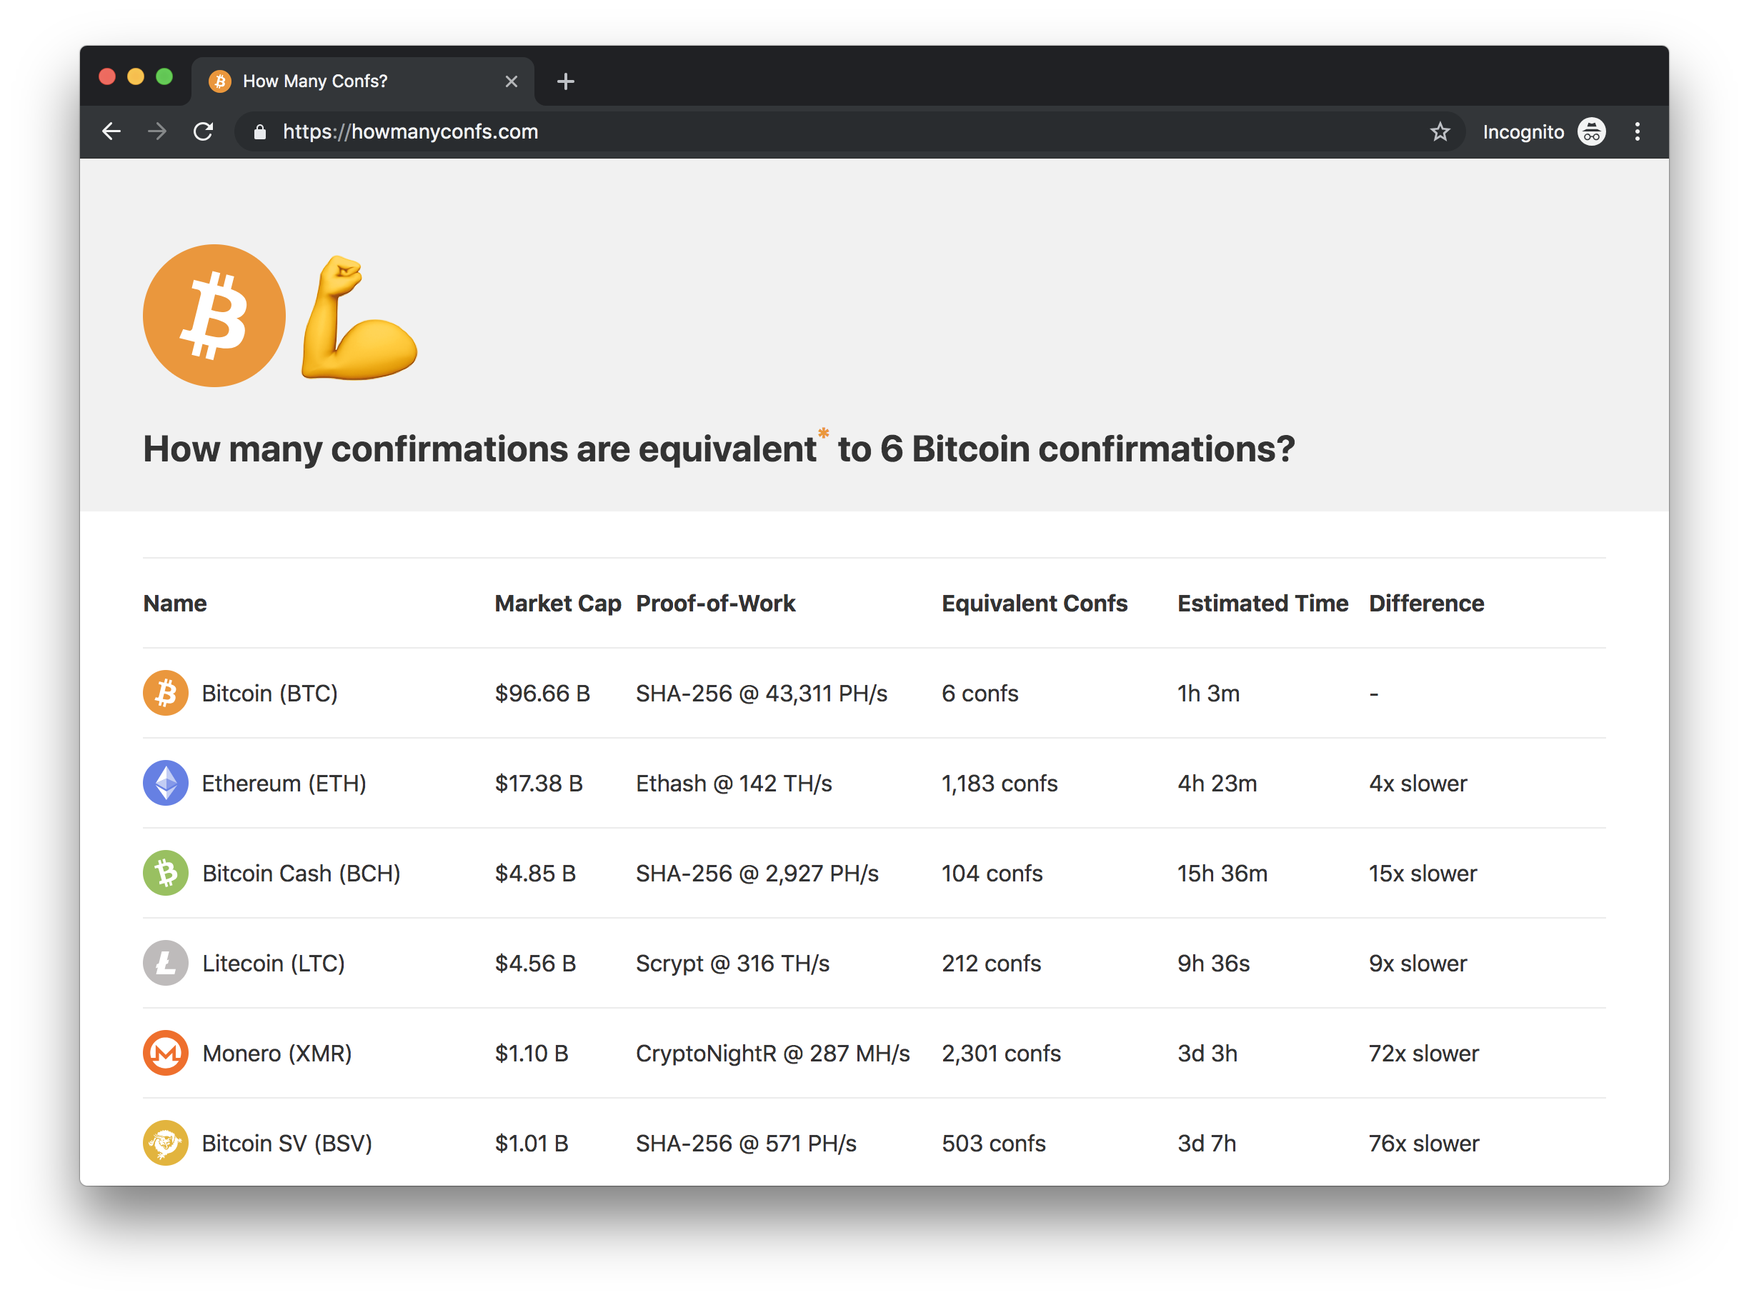
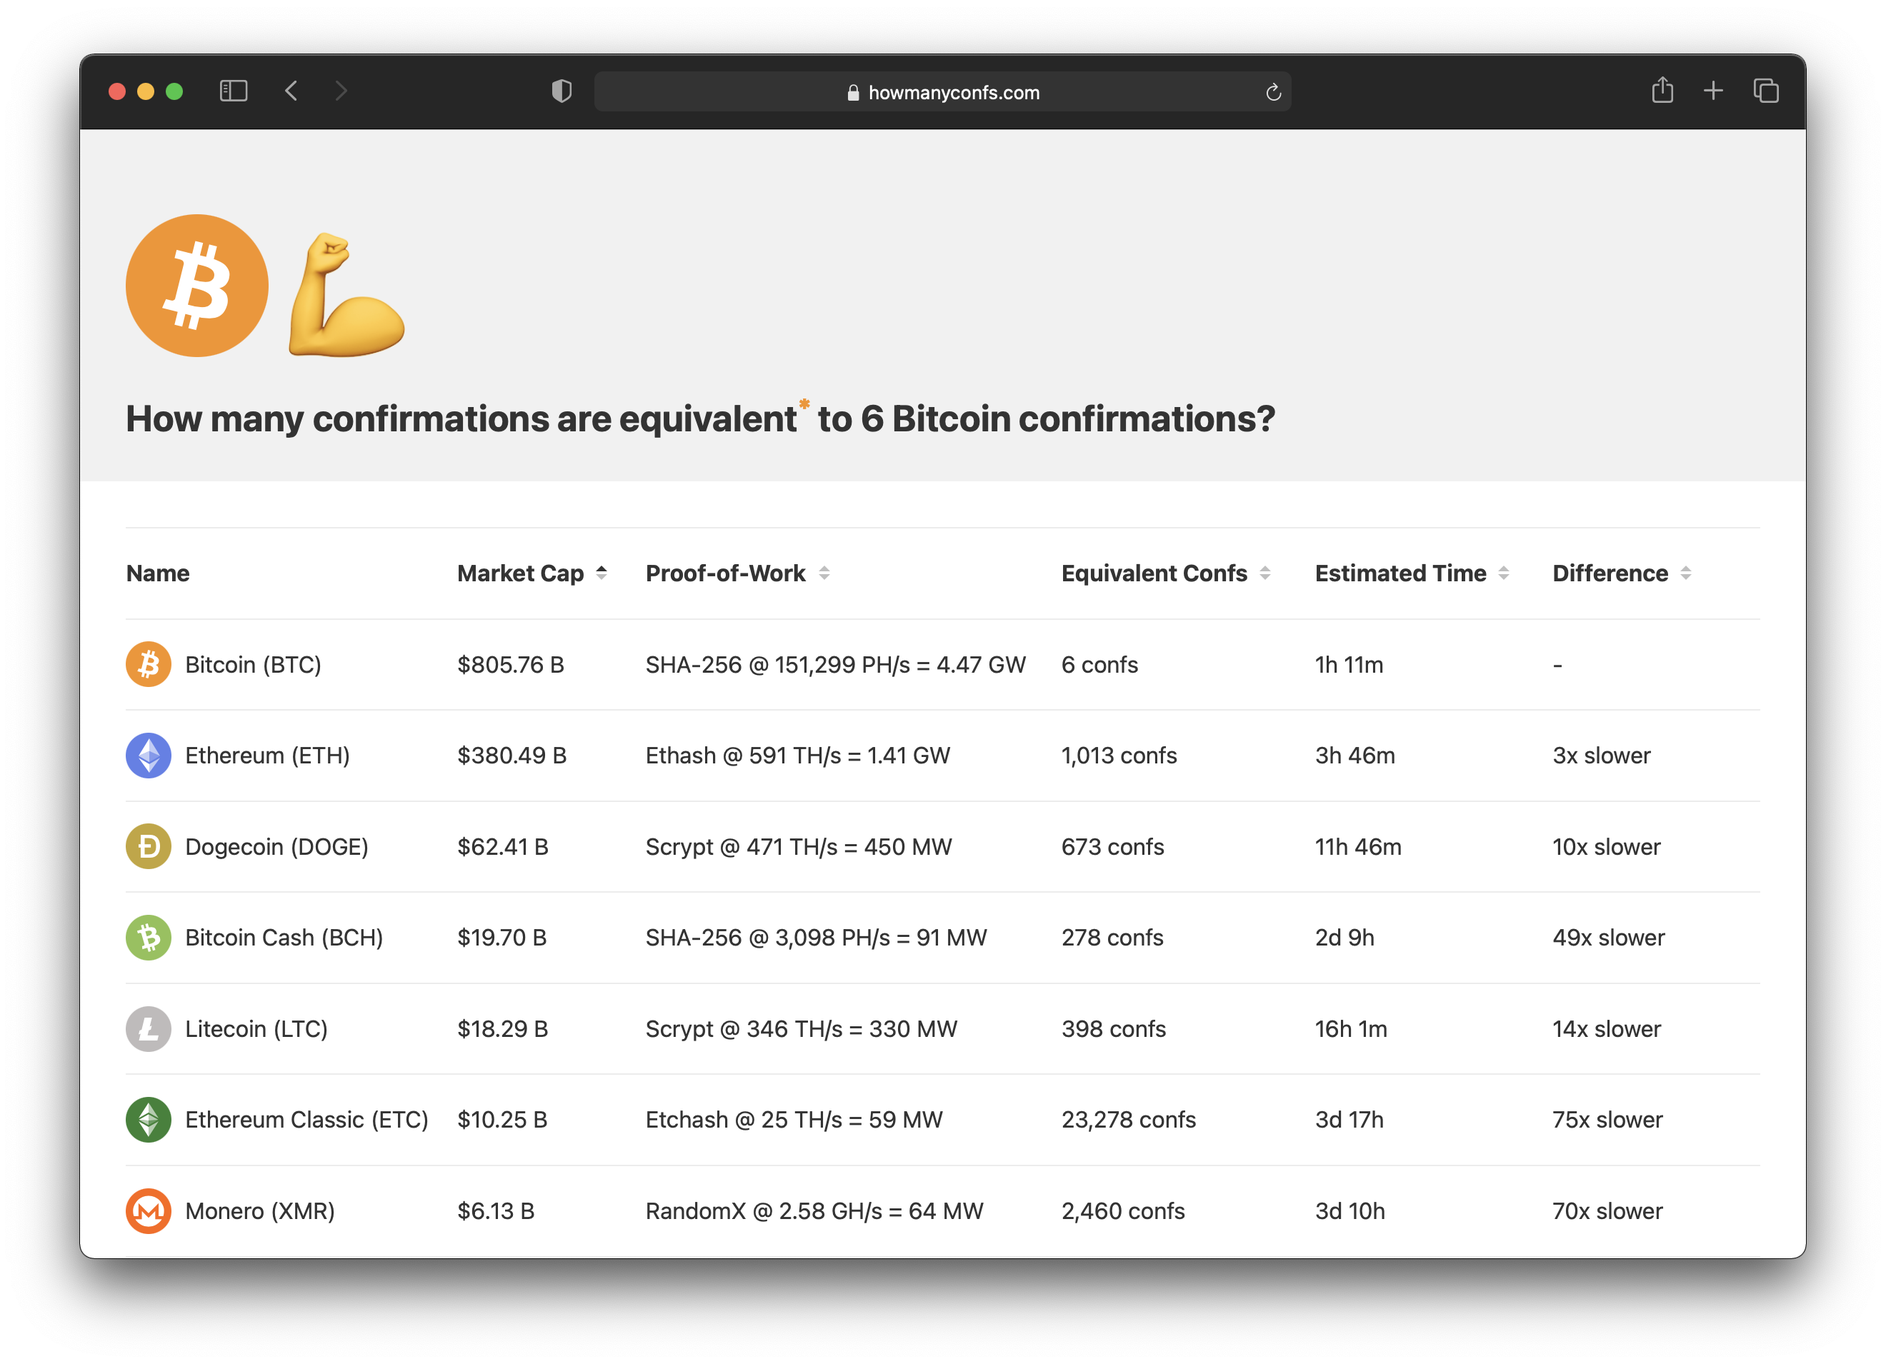
Calculate total PoW energy usage in watts (#31)

diff --git a/api/algorithms.js b/api/algorithms.js
@@ -1,0 +1,73 @@
+const sendJson = require('./util/send-json');
+
+const ANTMINER_S19_PRO_WATTAGE = 3250;
+const RTX_3090_WATTAGE = 285;
+const INNOSILICON_A6_PLUS_WATTAGE = 2100;
+const AMD_THREADRIPPER_1920X_WATTAGE = 180;
+const STU_U6_WATTAGE = 2200;
+const ANTMINER_Z15_WATTAGE = 1510;
+const STU_U1_PLUSPLUS_WATTAGE = 2200;
+const GOLDSHELL_CK5_WATTAGE = 2400;
+
+const rawHashes = (hashes, unit) => {
+	const multiplier = {
+		H: 1000 ** 0,
+		KH: 1000 ** 1,
+		MH: 1000 ** 2,
+		GH: 1000 ** 3,
+		TH: 1000 ** 4,
+		PH: 1000 ** 5
+	};
+
+	return hashes * multiplier[unit];
+};
+
+const getAlgorithms = () => [
+	{ // https://www.asicminervalue.com/miners/bitmain/antminer-s19-pro-110th
+		name: 'SHA-256',
+		joulesPerHash: ANTMINER_S19_PRO_WATTAGE / rawHashes(110, 'TH')
+	},
+	{ // https://www.nicehash.com/profitability-calculator/nvidia-rtx-3090
+		name: 'Ethash',
+		joulesPerHash: RTX_3090_WATTAGE / rawHashes(120, 'MH')
+	},
+	{ // https://www.asicminervalue.com/miners/innosilicon/a6-ltcmaster-1
+		name: 'Scrypt',
+		joulesPerHash: INNOSILICON_A6_PLUS_WATTAGE / rawHashes(2.2, 'GH')
+	},
+	{ // https://www.nicehash.com/profitability-calculator/amd-cpu-threadripper-1920x
+		name: 'RandomX',
+		joulesPerHash: AMD_THREADRIPPER_1920X_WATTAGE / rawHashes(7.24, 'KH')
+	},
+	{ // https://minerstat.com/hardware/nvidia-rtx-3090
+		name: 'Etchash',
+		joulesPerHash: RTX_3090_WATTAGE / rawHashes(121.16, 'MH')
+	},
+	{ // https://www.asicminervalue.com/miners/strongu/stu-u6
+		name: 'X11',
+		joulesPerHash: STU_U6_WATTAGE / rawHashes(440, 'GH')
+	},
+	{ // https://www.asicminervalue.com/miners/bitmain/antminer-z15
+		name: 'Equihash',
+		joulesPerHash: ANTMINER_Z15_WATTAGE / rawHashes(420, 'KH')
+	},
+	{ // https://www.asicminervalue.com/miners/strongu/stu-u1-2
+		name: 'Blake (14r)',
+		joulesPerHash: STU_U1_PLUSPLUS_WATTAGE / rawHashes(52, 'TH')
+	},
+	{ // https://www.nicehash.com/profitability-calculator/nvidia-rtx-3090
+		name: 'Zhash',
+		joulesPerHash: RTX_3090_WATTAGE / rawHashes(136.15, 'H')
+	},
+	{ // https://www.nicehash.com/profitability-calculator/nvidia-rtx-3090
+		name: 'KawPow',
+		joulesPerHash: RTX_3090_WATTAGE / rawHashes(54, 'MH')
+	},
+	{ // https://www.asicminervalue.com/miners/goldshell/ck5
+		name: 'Eaglesong',
+		joulesPerHash: GOLDSHELL_CK5_WATTAGE / rawHashes(12, 'TH')
+	}
+];
+
+module.exports = getAlgorithms;
+module.exports.handler = () => sendJson(getAlgorithms);

diff --git a/api/data.js b/api/data.js
@@ -1,45 +1,23 @@
 const sendJson = require('./util/send-json');
-const getNiceHashData = require('./nicehash');
 const getCoinData = require('./coins');
+const getAlgorithms = require('./algorithms');
+
+const algorithms = getAlgorithms();
+
+const getCoinAlgorithm = coin => {
+	return algorithms.find(algorithm => algorithm.name.toLowerCase() === coin.algorithm.toLowerCase());
+};
 
 const getData = async () => {
-	const [nicehashAlgorithms, coins] = await Promise.all([
-		getNiceHashData(),
-		getCoinData()
-	]);
-
-	const getNiceHashForCoin = coin => {
-		const names = {
-			'SHA-256': 'sha256asicboost',
-			Ethash: 'daggerhashimoto',
-			RandomX: 'RandomXmonero'
-		};
-
-		const coinAlgorithm = names[coin.algorithm] || coin.algorithm;
-		return nicehashAlgorithms.find(algorithm => algorithm.name.toLowerCase() === coinAlgorithm.toLowerCase());
-	};
+	const coins = await getCoinData();
 
 	const data = coins
-		.filter(coin => {
-			const nicehash = getNiceHashForCoin(coin);
-			if (!nicehash) {
-				// See if we can fix some of these
-				console.log(coin.symbol, coin.name, coin.algorithm);
-			}
-
-			return nicehash;
-		})
+		.filter(coin => getCoinAlgorithm(coin))
 		.map(coin => {
-			const nicehash = getNiceHashForCoin(coin);
+			const algorithm = getCoinAlgorithm(coin);
+			coin.watts = (coin.hashrate * algorithm.joulesPerHash);
 
-			const hashrateCostPerSecond = (coin.hashrate * nicehash.pricePerHashPerSecond);
-			const nicehasheable = (nicehash.hashrate / coin.hashrate * 100);
-
-			return {
-				...coin,
-				hashrateCostPerSecond,
-				nicehasheable
-			};
+			return coin;
 		});
 
 	return data;

diff --git a/js/index.js b/js/index.js
@@ -6,7 +6,7 @@ import getCoinName from './get-coin-name';
 import formatSeconds from './format-seconds';
 import coinBlackList from './coin-blacklist';
 import formatDollars from './format-dollars';
-import formatHashrate from './format-hashrate';
+import formatUnits from './format-units';
 
 const BITCOIN_CONFIRMATIONS = 6;
 
@@ -66,7 +66,7 @@ const render = (coins, sortBy) => {
 					${escapeHTML(`${getCoinName(coin)} (${coin.symbol})`)}
 				</td>
 				<td>${escapeHTML(formatDollars(coin.marketCap) || 'Unknown')}</td>
-				<td>${escapeHTML(`${coin.algorithm} @ ${formatHashrate(coin.hashrate)}`)}</td>
+				<td>${escapeHTML(`${coin.algorithm} @ ${formatUnits(coin.hashrate, 'H/s')}`)} = ${formatUnits(coin.watts, 'W')}</td>
 				<td>${escapeHTML(coin.confirmations.toLocaleString())} confs</td>
 				<td>${escapeHTML(formatSeconds(coin.timeForConfs))}</td>
 				<td>${escapeHTML(coin.symbol === 'BTC' ? '-' : `${Math.round(coin.multiplier).toLocaleString()}x slower`)}</td>
@@ -87,7 +87,7 @@ fetch('https://howmanyconfs.com/api/data')
 		coins = coins
 			.filter(coin => !coinBlackList.includes(coin.symbol))
 			.map(coin => {
-				const multiplier = (bitcoin.hashrateCostPerSecond / coin.hashrateCostPerSecond);
+				const multiplier = (bitcoin.watts / coin.watts);
 				const workTime = (bitcoin.blockTimeInSeconds * BITCOIN_CONFIRMATIONS * multiplier);
 				const confirmations = Math.ceil(workTime / coin.blockTimeInSeconds);
 				const timeForConfs = (coin.blockTimeInSeconds * confirmations);

diff --git a/js/format-units.js b/js/format-units.js
@@ -1,0 +1,12 @@
+const formatUnits = (originalValue, singleUnit) => ['', 'K', 'M', 'G', 'T', 'P'].reduce((previous, unit, exponent) => {
+	const devisor = (1000 ** exponent);
+	if (originalValue > devisor) {
+		let value = originalValue / devisor;
+		value = value < 10 ? value.toFixed(2) : Math.floor(value);
+		return `${value.toLocaleString()} ${unit}${singleUnit}`;
+	}
+
+	return previous;
+});
+
+export default formatUnits;

diff --git a/style.css b/style.css
@@ -2,7 +2,7 @@
 
 body {
   color: #333;
-  min-width: 1024px;
+  min-width: 1200px;
 }
 
 a {
@@ -15,7 +15,7 @@ a:hover {
 }
 
 .wrapper {
-  max-width: 1024px;
+  max-width: 1200px;
   margin: 0 auto;
   padding: 0 2em;
   box-sizing: content-box;

diff --git a/README.md b/README.md
@@ -13,66 +13,61 @@ Compare the time required for an equivalent amount of work to be completed betwe
 
 ## How are these values calculated?
 
-It's easy to compare blockchain hashrates when the Proof-of-Work algorithm is the same. For example if Bitcoin has a hashrate of SHA-256 @ 40 PH/s and Bitcoin Cash has a hashrate of SHA-256 @ 2 PH/s, it's easy to see that for a given period of time the Bitcoin blockchain will have 20x (40/2) the amount of work securing it than the Bitcoin Cash blockchain. Or to say that differently, you need to wait for 20x more Bitcoin Cash confirmations before an equivalent amount of work has been done compared to the Bitcoin blockchain. So 6 Bitcoin confirmations would be roughly equivalent to 120 Bitcoin Cash confirmations in the amount of work done.
+It's easy to compare blockchain hashrates when the Proof-of-Work algorithm is the same. For example if Bitcoin has a hashrate of SHA-256 @ 150,000 PH/s and Bitcoin Cash has a hashrate of SHA-256 @ 3,000 PH/s, it's easy to see that for a given period of time the Bitcoin blockchain will have 50x (150,000/3,000) the amount of work securing it than the Bitcoin Cash blockchain. Or to say that differently, you need to wait for 50x more Bitcoin Cash confirmations before an equivalent amount of work has been done compared to the Bitcoin blockchain. So 6 Bitcoin confirmations would be roughly equivalent to 300 Bitcoin Cash confirmations in terms of the amount of work done.
 
-However if the Proof-of-Work algorithms are different, how can we compare the hashrate? If we're comparing Bitcoin (SHA-256 @ 40 PH/s) against Litecoin (Scrypt @ 300 TH/s), the hashes aren't equal, one round of SHA-256 is not equivalent to one round of Scrypt.
+However if the Proof-of-Work algorithms are different, how can we compare the hashrate? If we're comparing Bitcoin (SHA-256 @ 150,000 PH/s) against Litecoin (Scrypt @ 350 TH/s), the hashes aren't equal, one round of SHA-256 is not equivalent to one round of Scrypt.
 
-What we really want to know is how much energy is being consumed to provide the current hash rate. Literal energy, as in joules or kilowatt hours. It would be great if we had a universal metric across blockchains like kWh/s to measure immutability.
+What we really want to know is how much power is being consumed on each chain to provide the current hash rate. Literal power, as in watts. So how can we calculate that?
 
-However that's fairly hard to calculate, we need to know the average power consumption of the average device used to mine. For GPU/CPU mined Proof-of-Work algorithms this varies greatly. For ASIC mined Proof-of-Work algorithms it varies less, however it's likely that ASIC manufacturers are mining with next generation hardware long before the public is made aware of them, which we can't account for.
+Well it's actually pretty simple.
 
-There's no automated way to get this data and no reliable data source to scrape it from. We'd need to manually research all mining hardware and collate the data ourself. And as soon as newer mining hardware comes out our results will be outdated.
+- Find the most advanced publically available hardware for a chains PoW algorithm.
+- Calculate the devices hashing efficiency in joules per hash (j/h).
+- Multiply the chain's hashrate by it's PoW algorithms j/h value.
+- Now we have the total watts consumed by the blockchain.
 
-Is there a simpler way to get an estimated amount of work per blockchain in a single metric we can use for comparisons?
+> **Note:** This makes the assumption that every single miner for the blockchain is using the most advanced hardware, which isn't true, but it's close enough.
 
-Yeah, there is, we can use NiceHash prices to estimate the cost in $ to secure a blockchain for a given timeframe. This is directly comparable across blockchains and should be directly proportionate to kWh/s, because after all, the energy needs to be paid for in $.
+The power consumption in watts can then be used as a reliable metric to compare Proof-of-Work between chains.
 
-How can we estimate this?
+As an example:
 
-- Get the blockchains Proof-of-Work algorithm
-- Lookup the average price per hash on NiceHash for this algorithm
-- Multiply price per hash by total hashrate per second
+**Bitcoin**
 
-Now we have an estimated total Proof-of-Work metric measured in dollars per second ($/s).
+- Algo: SHA-256
+- Hashrate: 150,000 PH/s
+- Best Miner: Antminer S19 Pro (110 TH/s @ 3250 W)
+- Joules per hash: 3250 W / 110 TH/s = 0.000000000029545 J
+- Watts: 150,000 PH/s * 0.000000000029545 J = 4.43 GW
 
-The $/s metric may not be that accurate. Miners will mark up the cost when reselling on NiceHash and we're making the assumption that NiceHash supply is infinite. You can't actually rent 100% of Bitcoin's hashpower from NiceHash, there isn't enough supply.
+**Litecoin**
 
-However that's not really an issue for this metric, we aren't trying to calculate the theoretical cost to rent an *additional* 100% of the hashrate, we're trying to get a figure that allows us to compare the cost of the *current* total hashrate accross blockchains. Even if the exact $ value we end up with is not that accurate, it should still be proportionate to kWh/s. This means it's still an accurate metric to compare the difference in work done over a given amount of time between blockchains.
+- Algo: Scrypt
+- Hashrate: 350 TH/s
+- Best Miner: Innosilicon A6+ LTCMaster (2.2Gh/s @ 2100 W)
+- Joules per hash: 2100 W / 2.2Gh/s = 0.000000954545455 J
+- Watts: 350 TH/s * 0.000000954545455 J = 334 MW
 
-So how do we compare these values between blockchains?
+So we can deduce from those calculations, if the entire Bitcoin hashrate was mined by Antminer S19 Pros it would require 4.5 GW of power, and if the entire Litecoin hashrate was mined by Innosilicon A6+s it would require 330 MW of power.
 
-Once we've done the above calculations and got a $/s cost for each blockchain, we just need to factor in the average block time and calculate the total $ cost for a given number of confirmations. Then see how much time is required on the other blockchain at it's $/s value to equal the total cost.
+Therefore Litecoin's hashrate is around 7% (330/4500) the power of Bitcoin's, it takes around 14x longer for the Litecoin blockchain to do the same amount of work.
+
+Once we've done the above calculations and got power consumption in watts for each blockchain, we can calculate the equivalent amount of confirmations across chains by factoring in the average block time and calculating the energy required for a given number of blocks. Then we check how many blocks are required on the other blockchain at it's power consumption to expend an equivalent amount of energy.
 
 So to calculate how many Litecoin confirmations are equivalent to 6 Bitcoin confirmations we would do:
 
-- Bitcoin (SHA-256 @ 40 PH/s) or ($100/s)
-- Litecoin (Scrypt @ 300 TH/s) or ($10/s)
+- Bitcoin (SHA-256 @ 150,000,338 PH/s = 4.43 GW)
+- Litecoin (Scrypt @ 350 TH/s = 334 MW)
 - Bitcoin's average block time is 10 minutes (600 seconds)
 - 6 Bitcoin confirmations on average is 60 minutes (3,600 seconds)
-- Bitcoin's total $ cost for 6 confirmations is ($100 * 3,600 seconds) $360,000
-- At Litecoin's hashrate of $10/s it would take ($360,000 / $10) 36,000 seconds (10 hours) to complete an equivalent amount of work
+- Bitcoin's total energy required for 6 confirmations is (4.43 GW * 3,600 seconds) 15.94 terajoules
+- At Litecoin's power consumption of 330 MW it would take (15.94 terajoules / 334 MW) 47,724 seconds (13 hours) to complete an equivalent amount of work
 - Litecoin's average block time is 2.5 minutes (150 seconds)
-- The amount of Litecoin blocks expected over this period of time is (36,000 seconds / 150 seconds) 240 blocks.
+- The amount of Litecoin blocks expected over this period of time is (47,724 seconds / 150 seconds) 318 blocks.
 
-Therefore we can say that 240 Litecoin confirmations are roughly equal to 6 Bitcoin confirmations in total amount of work done.
+Therefore we can say that 318 Litecoin confirmations are roughly equal to 6 Bitcoin confirmations in total amount of work done.
 
 ### Notes
-
-#### $/s doesn't mean what it sounds like it means.
-
-The $/s values should not be taken as literal costs.
-
-For example:
-
-> - Bitcoin's total $ cost for 6 confirmations is ($100 * 3,600 seconds) $360,000
-
-This is does not mean you could do a 51% attack on Bitcoin and roll back 6 blocks for a cost of $360,000. An attack like that would be much more expensive.
-
-The $/s value is a metric to compare the amount of work at the current hashrate between blockchains. It is not the same as the cost to add hashrate to the network.
-
-When adding hashrate to a network the cost will not scale linearly with hashrate. It will jump suddenly at certain intervals.
-
-For example, once you've used up the available hashrate on NiceHash you need to add the costs of purchasing ASICs, then once you've bought all the ASICs in the world, you'd need to add the costs of fabricating your own chips to keep increasing hashrate.
 
 #### These metrics are measuring "work done", not security.
 
@@ -80,16 +75,16 @@ More "work done" doesn't necessarily mean "more security".
 
 For example take the following two blockchains:
 
-- Bitcoin Cash (SHA-256 @ 2 PH/s) or ($5/s)
-- Zcash (Equihash @ 4 GH/s) or ($3/s)
+- Bitcoin Cash (SHA-256 @ 3,000 PH/s = 90 MW)
+- Zcash (Equihash @ 6 GH/s = 20 MW)
 
-Bitcoin Cash has a higher $/s value than Zcash so we can deduce it has more "work done" over a given timeframe than Zcash. More kWh/s are required to secure it's blockchain. However does that really mean it's safer?
+Bitcoin Cash has higher power consumption than Zcash so we can deduce it has more "work done" over a given timeframe than Zcash.  However does that really mean it's more secure?
 
-Zcash is the dominant blockchain for it's Proof-of-Work algorithm (Equihash). Whereas Bitcoin Cash isn't, it uses the same algorithm as Bitcoin. In fact just 5% of Bitcoin's hashrate is equivalent to all of Bitcoin Cash's hashrate.
+Zcash is the dominant blockchain for it's Proof-of-Work algorithm (Equihash). Whereas Bitcoin Cash isn't, it uses the same algorithm as Bitcoin. In fact just 2% of Bitcoin's hashrate is equivalent to all of Bitcoin Cash's hashrate.
 
-This means the cost of a 51% attack against Bitcoin Cash could actually be much lower than a 51% attack against Zcash, even though you need to aquire more kWh/s of work, the cost to aquire those kWh/s will likely be lower.
+This means the cost of a 51% attack against Bitcoin Cash could actually be much lower than a 51% attack against Zcash, even though you need to aquire more MW of hashpower, the cost to aquire that hashpower will likely be lower.
 
-To attack Bitcoin Cash you don't need to acquire any hardware, you just need to convince 5% of the Bitcoin hashrate to lend their SHA-256 hashpower to you.
+To attack Bitcoin Cash you don't need to acquire any hardware, you just need to convince 2% of the Bitcoin hashrate to lend their SHA-256 hashpower to you.
 
 To attack Zcash, you would likely need to fabricate your own Equihash ASICs, as almost all the Equihash mining hardware in the world is already securing Zcash.
 
@@ -105,15 +100,12 @@ You should factor in:
 - What is the market cap of this cryptocurrency?
 - What is the daily trading volume of this cryptocurrency?
 - What is the $ value of this transaction?
-- What is the probability of a successful double-spend, given the attacker's hashrate?
 
-If the cryptocurrency doesn't dominate the Proof-of-Work it can be attacked more cheaply.
+If the cryptocurrency isn't the dominant cryptocurrency for it's Proof-of-Work algorithm it can be attacked much more cheaply.
 
 If the market cap or trading volume is really low, an attacker may crash the price of the currency before they can successfully double spend it and make a profit. Although that's more relevant in the context of exchanges rather than individuals accepting payments.
 
 If the value of the transaction is low enough, it may cost more to double spend than an attacker would profit from the double spend.
-
-If the attacker can't muster a high enough percentage of the network hashrate, a double-spend attempt can fail, increasing the average cost of a successful attack. The probability depends on the number of confirmations and the effective hashrate of the attacker, but not on the time between blocks, giving an advantage to networks with faster blocks. This is discussed [here](https://arxiv.org/pdf/1402.2009.pdf).
 
 Ultimately, once the cost of a double spend becomes higher than an attacker can expect to profit from the double spend, that is when a payment can probably be considered "finalised".
 
@@ -123,7 +115,7 @@ Do you think I've made a mistake or got something wrong? Please [open an issue](
 
 ## Credit
 
-Data is sourced from [whattomine.com](https://whattomine.com/) and [nicehash.com](https://www.nicehash.com/).
+Cryptocurrency data is pulled from [whattomine.com](https://whattomine.com/).
 
 ## License
 
